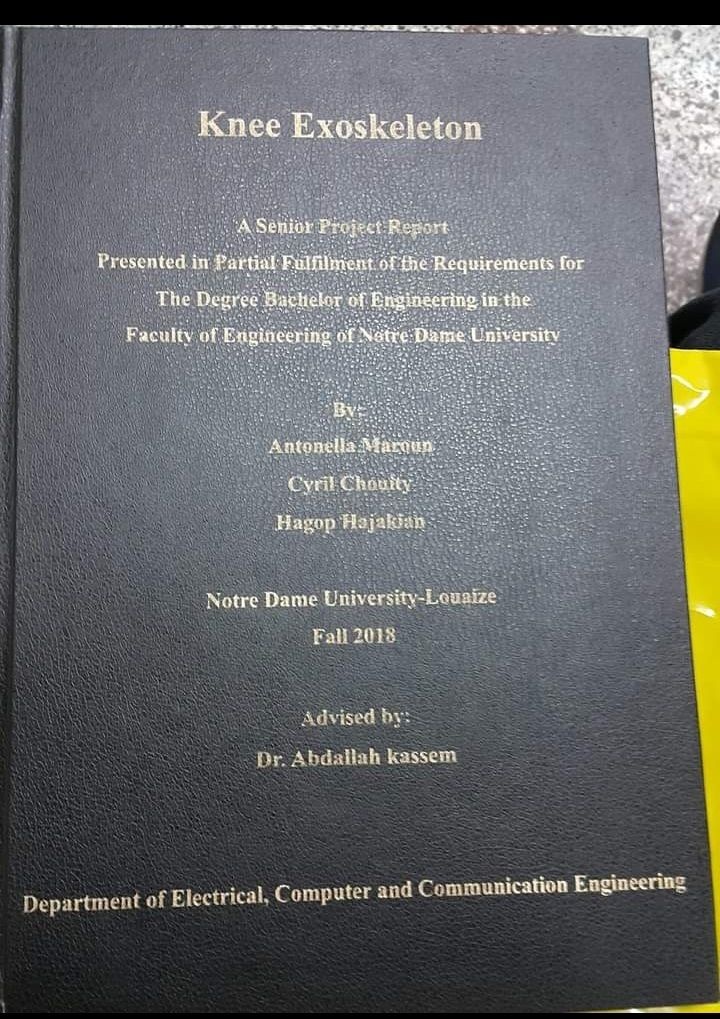
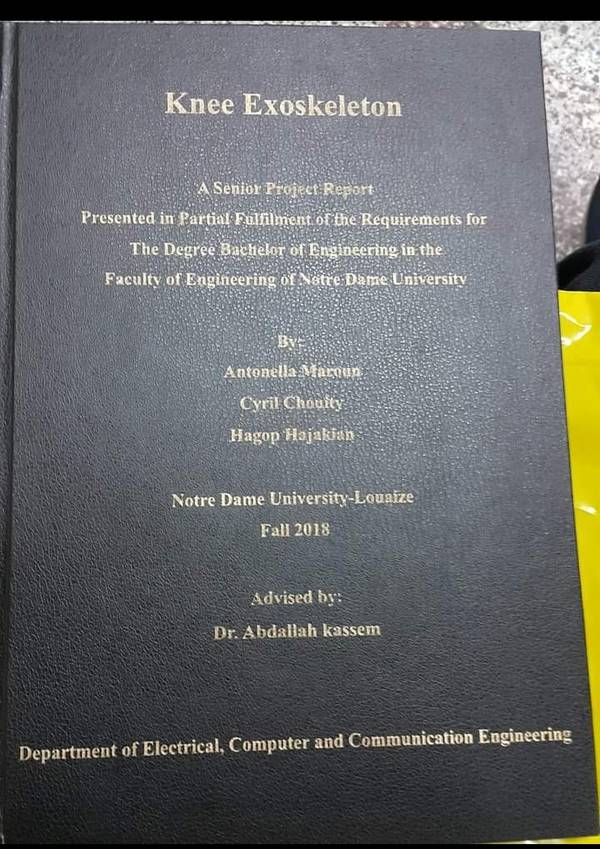
Further optimize gallery images with WebP format
- Convert to WebP (36-90KB) with JPG fallback
- Total size now ~200KB (was 2MB originally)
- Use link preload for faster loading
- Simplified loading skeleton

diff --git a/src/pages/Projects.jsx b/src/pages/Projects.jsx
@@ -1,14 +1,17 @@
-import React, { useState, useRef, useCallback, useEffect, useMemo } from 'react';
+import React, { useState, useRef, useCallback, useEffect } from 'react';
 import { motion, AnimatePresence } from 'framer-motion';
 import AnimatedSection, { AnimatedItem } from '../components/AnimatedSection';
 import GlassCard from '../components/GlassCard';
 import YouTubePlayer from '../components/YouTubePlayer';
 import { useAudio } from '../context/AudioContext';
 
-// Image component with loading state
+// Image component with loading state and WebP support
 const ProjectImage = ({ src, alt, className, onClick }) => {
   const [isLoaded, setIsLoaded] = useState(false);
   const [isError, setIsError] = useState(false);
+
+  // Generate WebP source from jpg path
+  const webpSrc = src.replace('.jpg', '.webp');
 
   return (
     <div className="relative w-full h-48 bg-dark-lighter rounded-lg overflow-hidden">
@@ -16,23 +19,21 @@ const ProjectImage = ({ src, alt, className, onClick }) => {
       {!isLoaded && !isError && (
         <div className="absolute inset-0 flex items-center justify-center">
           <div className="animate-pulse w-full h-full bg-gradient-to-r from-dark-lighter via-dark to-dark-lighter" />
-          <div className="absolute inset-0 flex items-center justify-center">
-            <svg className="w-8 h-8 text-muted animate-spin" fill="none" viewBox="0 0 24 24">
-              <circle className="opacity-25" cx="12" cy="12" r="10" stroke="currentColor" strokeWidth="4" />
-              <path className="opacity-75" fill="currentColor" d="M4 12a8 8 0 018-8V0C5.373 0 0 5.373 0 12h4z" />
-            </svg>
-          </div>
         </div>
       )}
-      <img
-        src={src}
-        alt={alt}
-        className={`w-full h-48 object-cover transition-opacity duration-500 ${isLoaded ? 'opacity-100' : 'opacity-0'} ${className}`}
-        loading="eager"
-        onLoad={() => setIsLoaded(true)}
-        onError={() => setIsError(true)}
-        onClick={onClick}
-      />
+      <picture>
+        <source srcSet={webpSrc} type="image/webp" />
+        <img
+          src={src}
+          alt={alt}
+          className={`w-full h-48 object-cover transition-opacity duration-300 ${isLoaded ? 'opacity-100' : 'opacity-0'} ${className}`}
+          loading="eager"
+          decoding="async"
+          onLoad={() => setIsLoaded(true)}
+          onError={() => setIsError(true)}
+          onClick={onClick}
+        />
+      </picture>
     </div>
   );
 };
@@ -42,19 +43,22 @@ const Projects = () => {
   const videoRefs = useRef([]);
   const [zoomedImage, setZoomedImage] = useState(null);
 
-  // Preload gallery images on mount
-  const imagesToPreload = useMemo(() => [
-    '/assets/images/projectposter.jpg',
-    '/assets/images/exo2.jpg',
-    '/assets/images/book.jpg',
-  ], []);
-
+  // Preload gallery images on mount (WebP for modern browsers)
   useEffect(() => {
-    imagesToPreload.forEach((src) => {
-      const img = new Image();
-      img.src = src;
+    const images = [
+      '/assets/images/projectposter.webp',
+      '/assets/images/exo2.webp',
+      '/assets/images/book.webp',
+    ];
+    images.forEach((src) => {
+      const link = document.createElement('link');
+      link.rel = 'preload';
+      link.as = 'image';
+      link.href = src;
+      link.type = 'image/webp';
+      document.head.appendChild(link);
     });
-  }, [imagesToPreload]);
+  }, []);
 
   const handleVideoPlay = useCallback((index) => {
     // Pause all other videos
